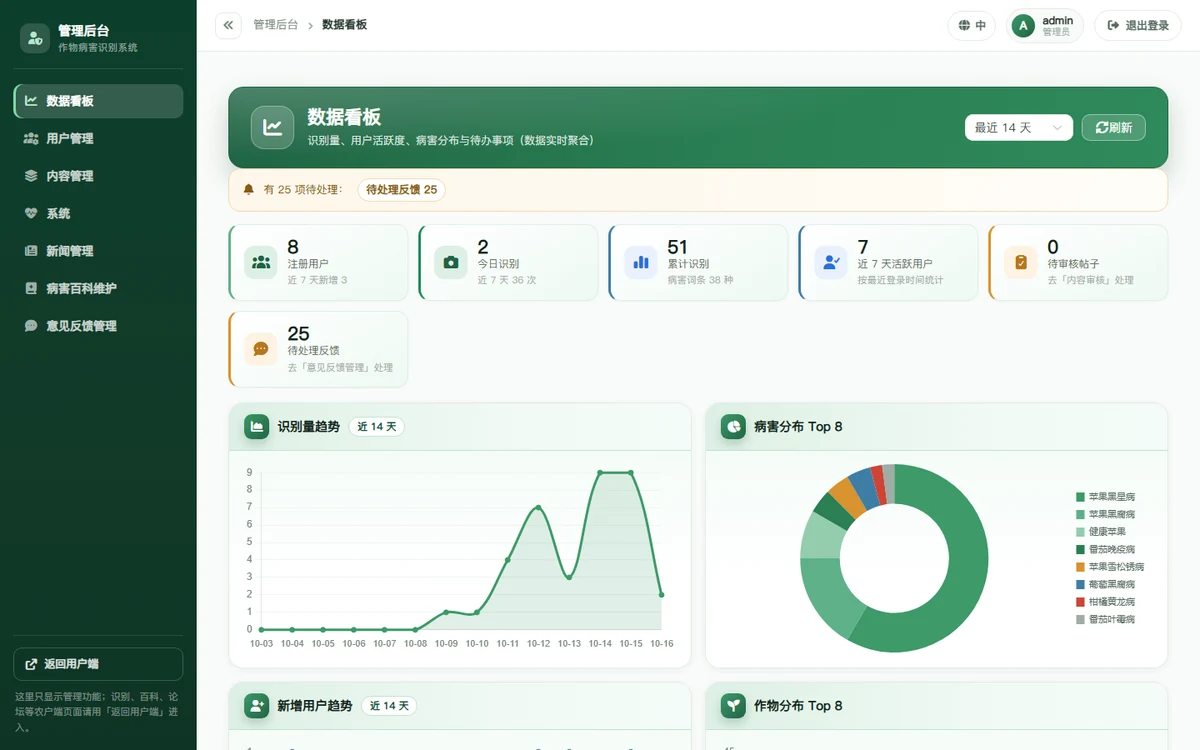
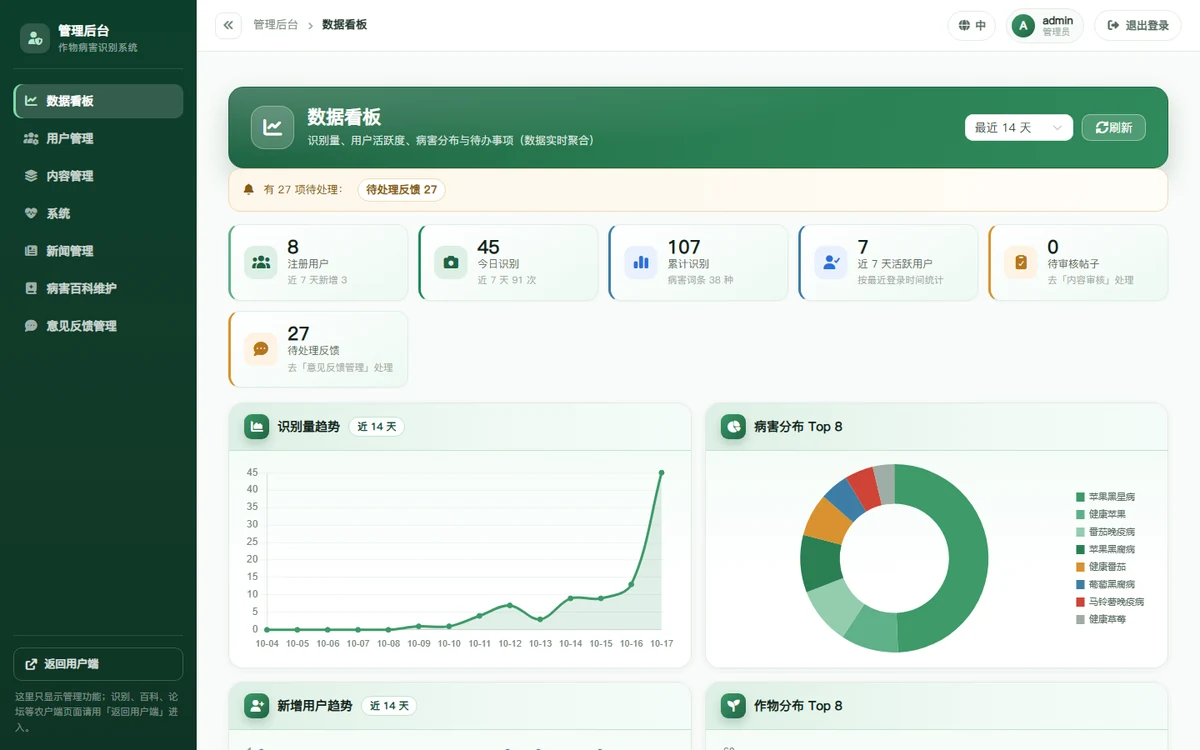
feat(配图/审计): 重截 GitHub 上的界面截图 —— 顺手修掉操作日志显示原始标识符（第 221 批）
用户要求"同步到 GitHub，界面图片也改一下"。截图是 10-16 02:59 的，早于第 214~219 批的全部界面改动
（识别前选作物、预警对游客开放、咨询附图、日历月历网格、帖子"已删除"筛选），据此重截 10 张。

**重截本身没什么，值得记的是过程中发现的东西。**

## 一、截图脚本编造了一个不存在的动作

脚本种演示日志用 `post.pin`（"置顶了一篇求助帖"）—— 但**全仓没有任何地方写这个动作**
（置顶/加精根本没有审计），`ACTION_CHOICES` 里也没有。于是 `get_action_display()`
原样返回标识符，图上的"动作"列就是 `post.pin`。
改用真实存在、中文标签也说得通的动作（`comment.restore` → "恢复已删除的评论"）。

## 二、由此发现一个**产品** bug（不是截图问题）

把所有 `log_admin_action(...)` 的 action 与 `ACTION_CHOICES` 对了一遍：

```
代码里用到 23 个 action，1 个没登记：
  ❌ post.bulk_delete   （views_forum.py 的批量软删帖子）
```

它在生产代码里，所以**真实用户的日志里就显示成 `post.bulk_delete`**，
"动作"筛选下拉里也找不到这一项（截图里那行 2026-10-13 的"批量删除 1/1 条"就是实证）。

- choices 补 `('post.bulk_delete', '批量删除帖子')` + 迁移 `0060`（只改选项，不动表结构）；
- 新增 `AuditActionDeclaredTests` 两条：正则扫 `api/*.py` 里所有 `log_admin_action(<x>, '动作'`
  逐个断言已登记；再断言每个标签非空且不等于标识符。
  这类漏登记**不报错、不失败**，只有人盯着界面才会发现，值得用测试钉住。

## 三、`--noreload` 又教育了一次

改完 choices、跑完迁移、重新截图，图上**还是** `post.bulk_delete` —— 后端是
`runserver --noreload`，不重启进程里还是旧 choices。重启后接口实测 15 条日志的
`action_display` **全部**中文（0 条原始值），才重截第三次。
这条坑本批刚写进 README 的"必须知道的事"，转头自己就踩了。

## 四、截图里还有一处"机器名"

演示版块原来叫 `zze2e演示版块 · 作物病害交流`（第 189 批为便于清理保留前缀），
而它**会原样显示在帖子的版块列**上。改成 `露地蔬菜交流`，清理标记改用 `order=999`
（真实版块 order 只到 3，不会撞），开头与收尾都按"旧名前缀 **或** order=999"两路删。

## 五、我自己搞坏又修回的一处

给 `tests.py` 插入新测试类时，`old_string` 停在了 `AuditLogDateFilterTests` docstring
的**第一行**，导致那个类的类头与 `"""` 被吃掉、剩下的文字成了游离代码，
`ast.parse` 立刻报 `invalid character '。'`。按行号补回类头与 docstring 开头后恢复。
**教训：插入位置永远选在"某个完整块之后"，不要切进块内部。**
[…]

diff --git a/backend/api/tests.py b/backend/api/tests.py
@@ -10650,6 +10650,57 @@ class ForumAdminListingTests(APITestCase):
         self.assertEqual(titles, ['zz已发布'])
 
 
+class AuditActionDeclaredTests(TestCase):
+    """**代码里写的每个 action，都必须在 `ACTION_CHOICES` 里登记**（第 221 批）
+
+    ## 为什么加这一条
+
+    操作日志的"动作"列取的是 `get_action_display()`。Django 的 choices 只做**表单层**校验，
+    `objects.create()` 完全不拦 —— 于是代码里写一个没登记的 action，
+    存进去、查出来都正常，只是界面上显示成**原始标识符**：
+
+        post.bulk_delete   ← 截图里就是这么暴露出来的
+        post.pin           ← 截图脚本自己编的，全仓根本不存在这个动作
+
+    这种漏登记**不会报错、不会失败**，只有人盯着界面才会发现。
+
+    ## 为什么是静态扫描
+
+    逐个动作去构造调用太重（23 个动作散布在 7 个视图文件里）。
+    直接读源码正则匹配 `log_admin_action(<x>, '动作'` —— 新加动作忘了登记会立刻红。
+    """
+
+    #: 扫描范围：只扫生产代码，不带 tests.py 自己
+    SCAN_DIR = 'api'
+
+    def test_every_action_used_in_code_is_declared(self):
+        import pathlib
+        import re
+
+        declared = {choice[0] for choice in AdminAuditLog.ACTION_CHOICES}
+        pattern = re.compile(r"log_admin_action\(\s*[^,]+,\s*'([a-z_]+\.[a-z_]+)'")
+        root = pathlib.Path(__file__).resolve().parent
+        used = {}
+        for path in root.glob('*.py'):
+            if path.name == 'tests.py':
+                continue
+            for match in pattern.finditer(path.read_text(encoding='utf-8', errors='replace')):
+                used.setdefault(match.group(1), set()).add(path.name)
+
+        undeclared = {a: src for a, src in used.items() if a not in declared}
+        self.assertEqual(
+            undeclared, {},
+            '这些 action 在代码里用了但没登记到 ACTION_CHOICES，界面会显示原始标识符：'
+            + '；'.join(f'{a}（{", ".join(sorted(s))}）' for a, s in sorted(undeclared.items())),
+        )
+
+    def test_every_declared_action_has_chinese_label(self):
+        """登记了就得有中文标签 —— 空标签等于又把原始标识符露给用户。"""
+        for value, label in AdminAuditLog.ACTION_CHOICES:
+            self.assertTrue(label.strip(), f'{value} 的标签是空的')
+            self.assertNotEqual(value, label, f'{value} 的标签与标识符相同，等于没翻译')
+
+
 class AuditLogDateFilterTests(APITestCase):
     """
     操作日志的时间范围筛选（第 148 批，控制台「操作日志」页要用）

diff --git a/backend/api/migrations/0060_alter_adminauditlog_action.py b/backend/api/migrations/0060_alter_adminauditlog_action.py
@@ -1,0 +1,18 @@
+# Generated by Django 5.2.4 on 2026-10-17 09:23
+
+from django.db import migrations, models
+
+
+class Migration(migrations.Migration):
+
+    dependencies = [
+        ('api', '0059_alter_adminauditlog_action'),
+    ]
+
+    operations = [
+        migrations.AlterField(
+            model_name='adminauditlog',
+            name='action',
+            field=models.CharField(choices=[('user.suspend', '停用账号'), ('user.restore', '恢复账号'), ('user.role_change', '调整角色'), ('user.create_editor', '开通编辑员'), ('user.delete', '删除账号'), ('user.bulk_delete', '批量删除账号'), ('user.reset_link', '签发密码重置链接'), ('comment.soft_delete', '软删除评论'), ('comment.restore', '恢复已删除的评论'), ('comment.hard_delete', '彻底删除评论'), ('comment.bulk_delete', '批量软删除评论'), ('post.soft_delete', '删除帖子'), ('post.bulk_delete', '批量删除帖子'), ('feedback.bulk_status', '批量流转反馈状态'), ('feedback.bulk_delete', '批量删除反馈'), ('detection.delete', '删除识别记录'), ('board.create', '新建版块'), ('board.update', '编辑版块'), ('board.set_status', '版块启停'), ('board.update_order', '版块排序'), ('word.create', '新增敏感词'), ('word.delete', '删除敏感词'), ('announcement.create', '发布公告'), ('announcement.delete', '删除公告')], db_index=True, max_length=40, verbose_name='动作'),
+        ),
+    ]

diff --git a/backend/api/models_audit.py b/backend/api/models_audit.py
@@ -48,6 +48,10 @@ class AdminAuditLog(models.Model):
         #: 以前只有评论有审计、帖子没有 —— 用户问"用户自己删了帖子，
         #: 后台管理操作那里看不到吗"，答案就是这条缺失。
         ('post.soft_delete', '删除帖子'),
+        #: ⚠ 第 221 批补：`views_forum.py` 里的批量软删帖子一直在写 `post.bulk_delete`，
+        #: 但 choices 里没登记 → 操作日志的"动作"列显示的是**原始标识符**，
+        #: 筛选下拉里也找不到它。截图里一眼就能看见（`post.bulk_delete`）。
+        ('post.bulk_delete', '批量删除帖子'),
         ('feedback.bulk_status', '批量流转反馈状态'),
         ('feedback.bulk_delete', '批量删除反馈'),
         # 第 172 批：控制台「识别记录」页的删除（不可逆，图片文件一并删）

diff --git a/docs/系统完善记录.md b/docs/系统完善记录.md
@@ -17255,3 +17255,85 @@ python manage.py check_model_labels
 - `check_line_endings.py`：438 个文本文件全部 LF；`strip_bom.py`：无 BOM
 - README 里 10 张 `docs/images/*.webp` 全部存在
 - 所有数字均来自本轮实跑/实测（后端 858、前端 131、spec 7、脚本 43、命令 25、动作 23）
+
+## 二百一十二、第 221 批：把 GitHub 上的界面截图换掉 —— 顺手抓到操作日志的真 bug
+
+用户要求"同步到 GitHub，界面图片也改一下"。截图是 **10-16 02:59** 的，早于第 214~219 批的所有界面改动
+（识别前选作物、预警对游客开放、咨询附图、日历月历网格、帖子"已删除"筛选），确实该重截。
+
+**重截本身没什么，值得记的是重截过程中发现的东西。**
+
+### 一、截图脚本编造了一个不存在的动作
+
+`capture-docs-shots.mjs` 里种演示日志用的是 `post.pin`（"置顶了一篇求助帖"）——
+而**全仓没有任何地方会写这个动作**（置顶/加精根本没有审计）。`ACTION_CHOICES` 里也没有，
+于是 Django 的 `get_action_display()` 直接返回原始标识符：
+
+```
+动作列：post.pin      ← 原文就长这样，挂在 README 上看不出是什么意思
+```
+
+改成真实存在、中文标签也说得通的动作（`comment.restore` → "恢复已删除的评论"）。
+
+### 二、由此发现一个**产品** bug（不是截图问题）
+
+顺着上面那条查下去，把代码里所有 `log_admin_action(...)` 的 action 抽出来，与
+`ACTION_CHOICES` 对了一遍：
+
+```
+代码里用到 23 个 action，其中 1 个没登记：
+  ❌ post.bulk_delete   （views_forum.py 的批量软删帖子）
+```
+
+它已经写在生产代码里，所以**真实用户的操作日志里就显示成 `post.bulk_delete`**，
+而且"动作"筛选下拉里也找不到这一项。截图里那一行（2026-10-13，批量删除 1/1 条）就是实证。
+
+**修法**：choices 补 `('post.bulk_delete', '批量删除帖子')` + 迁移 `0060`（只改选项，不动表结构）。
+
+**加了一条静态扫描测试**（`AuditActionDeclaredTests`）：
+
+- 正则扫 `api/*.py` 里所有 `log_admin_action(<x>, '动作'`，逐个断言已在 `ACTION_CHOICES` 里；
+- 再断言每个登记的标签非空、且不等于标识符（"标签与标识符相同"等于没翻译）。
+
+这类漏登记**不会报错、不会失败**，只有人盯着界面才会发现 —— 所以值得用一个测试钉住。
+
+### 三、`--noreload` 又教育了我一次
+
+改完 choices、跑完迁移，重新截图，图上**还是** `post.bulk_delete`。
+原因：后端是 `runserver --noreload`，改了 `models_audit.py` 不重启，进程里还是旧 choices。
+重启后接口实测：15 条日志的 `action_display` **全部**是中文（0 条原始值），才重截第三次。
+
+这条坑我这轮刚写进 README 的"必须知道的事"，转头自己就踩了。
+
+### 四、截图里还有一处"机器名"
+
+演示版块原来叫 `zze2e演示版块 · 作物病害交流`（第 189 批为了便于清理保留了前缀），
+而它**会原样显示在帖子的版块列**上 —— 挂在 GitHub 首屏像临时数据。
+
+改成 `露地蔬菜交流`，清理标记改用 `order=999`（现有真实版块 order 只到 3，不会撞），
+收尾与开头的清理都按"旧名前缀 **或** order=999"两路删。
+
+### 五、我自己搞坏又修回的一处
+
+给 `tests.py` 插入新测试类时，我的 `old_string` 停在了 `AuditLogDateFilterTests`
+docstring 的**第一行**，导致那个类的类头与 `"""` 被吃掉、剩下的文字成了游离代码 ——
+`ast.parse` 立刻报 `invalid character '。'` 。按行号补回类头与 docstring 开头后恢复正常。
+**教训：插入位置永远选在"某个完整块之后"，不要切进块内部。**
+
+### 六、GitHub 上的图现在是什么样
+
+10 张全部重生成（`docs/images/*.webp`，WebP quality 88，合计 **588 KB**）：
+
+- 农户端：首页、识别结果（真实推理，中文病名 + "问一下助手"）、论坛、百科、**智能问答**
+- 管理端：数据看板、内容管理（帖子/评论/举报三页签）、系统健康、**操作日志**、评论可恢复
+
+截图里现在是：新侧栏（内容管理 + 系统）、中文动作标签（含"批量删除帖子"）、
+自然版块名（露地蔬菜交流）、真实推理结果（苹果黑星病 0.99）。
+
+### 验证
+
+- 截图脚本：10 张全部生成，**全程无 JS 报错**，演示数据已清理，admin 问答历史已还原（快照文件删除）
+- `AuditActionDeclaredTests` 2 条通过；`AdminAuditLogTests` / `PostSoftDeleteTests` / `ForumFeatureTests` 37 条通过
+- `check_line_endings.py`：迁移文件又是 Django 生成的 CRLF，已 `--fix`
+- `check_md_links.py`：58 个链接/图片全部存在且已入库
+- 后端全量见提交说明
